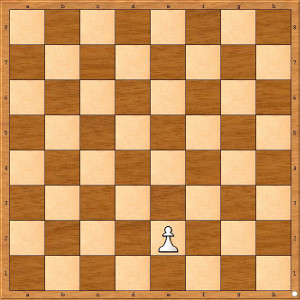
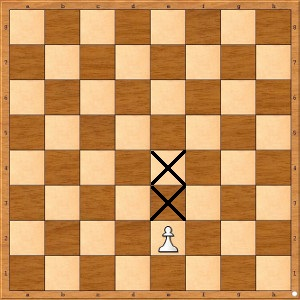
basic-moves done

diff --git a/main.html b/main.html
@@ -28,7 +28,7 @@
         </div>
     </nav>
     <div id="main-block">
-        <section class="setup">
+        <div class="setup">
             <h3>New to chess? Learn the basics now!</h3>
             <p>
                 A chessboard consists of <i>64 squares</i> which can be split into 32 dark and 32 light squares. Both
@@ -47,31 +47,52 @@
                 the
                 bottom-left corner should be the A1 square otherwise (if you are playing as black) H8.
             </p>
-        </section>
-        <section class="basic-moves">
-            <p>
-                Each type of chess piece has its own method of movement.
-            <ul>
-                <li> The <b>king</b> can move into any directions
-                    (horizontally, vertically, or diagonally) but exactly one square at a time.</li>
-                <li>The <b>rook</b> can move any vacant squares horizontally or vertically.</li>
-                <li>A <b>bishop</b> can move any number of vacant squares diagonally.</li>
-                <li>The <b>queen</b> can move any number of vacant squares horizontally, vertically, or diagonally.</li>
-                <li>The <b>knight</b> can move two squares vertically and one square horizontally, or two squares
-                    horizontally
-                    and one square vertically (forming a shape of an "L").</li>
-                <li><b>Pawns</b> have the most complex rulse of movement:</li>
+        </div>
+        <div class="basic-moves">
+            <div class="left-side">
+                <p>
+                    Each type of chess piece has its own method of movement.
                 <ul>
-                    <li>A pawn moves straight forward one square, if that square is vacant. If it has not yet moved, a
-                        pawn also has the option of moving two squares straight forward, provided both squares are
-                        vacant. Pawns cannot move backwards.
+                    <li> The <b>king</b> can move into any directions
+                        (horizontally, vertically, or diagonally) but exactly one square at a time.</li>
+                    <li>The <b>rook</b> can move any vacant squares horizontally or vertically.</li>
+                    <li>The <b>bishop</b> can move any number of vacant squares diagonally.</li>
+                    <li>The <b>queen</b> can move any number of vacant squares horizontally, vertically, or
+                        diagonally.
                     </li>
-                    <li>A pawn can capture an enemy piece on either of the two squares diagonally in front of the pawn.
-                    </li>
+                    <li>The <b>knight</b> can move two squares vertically and one square horizontally, or two
+                        squares
+                        horizontally
+                        and one square vertically (forming a shape of an "L").</li>
+                    <li><b>Pawns</b> have the most complex rulse of movement:</li>
+                    <ul>
+                        <li>A pawn moves straight forward one square, if that square is vacant. If it has not
+                            yet
+                            moved,
+                            a
+                            pawn also has the option of moving two squares straight forward, provided both
+                            squares
+                            are
+                            vacant. Pawns cannot move backwards.
+                        </li>
+                        <li>A pawn can capture an enemy piece on either of the two squares diagonally in front
+                            of
+                            the
+                            pawn.
+                        </li>
+                    </ul>
                 </ul>
-            </ul>
-            </p>
-        </section>
+                </p>
+            </div>
+            <div class="right-side">
+                <img src="img/king_move.JPG" alt="king">
+                <img src="img/rook_move.JPG" alt="rook">
+                <img src="img/bishop_move.JPG" alt="bishop">
+                <img src="img/queen_move.JPG" alt="queen">
+                <img src="img/knight_move.JPG" alt="knight">
+                <img src="img/pawn_move.JPG" alt="pawn">
+            </div>
+        </div>
     </div>
 </body>
 

diff --git a/css/style.css b/css/style.css
@@ -50,14 +50,35 @@ body {
 #navbar a:hover {
     color: darkslateblue;
 }
+
 #main-block {
     margin: 1rem;
 }
 
-#main-block .setup{
+#main-block .setup {
     text-align: center;
 }
 
-.basic-moves ul{
+/*.basic-moves {
+    margin: 0;
+    min-width: 100%;
+}*/
+
+.left-side {
+    width: 50%;
+    float: left;
+}
+
+.left-side ul {
     list-style-type: square;
+}
+
+.right-side {
+    float: right;
+    width: 50%;
+}
+
+.basic-moves::after {
+    clear: both;
+    display: table;
 }

diff --git a/openings.html b/openings.html
@@ -7,5 +7,7 @@
 </head>
 <body>
     
+   
+
 </body>
 </html>
